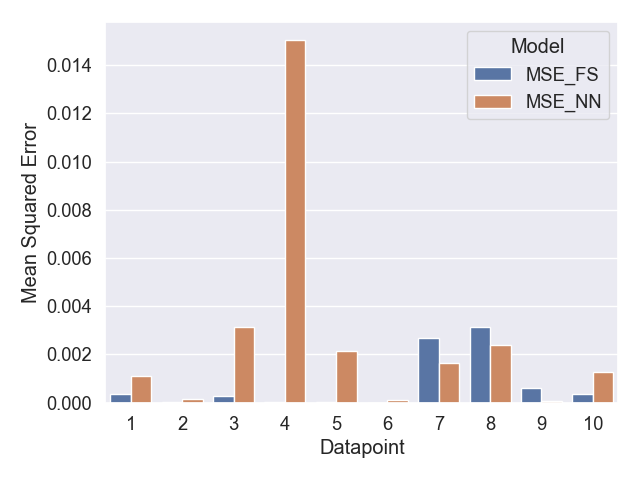
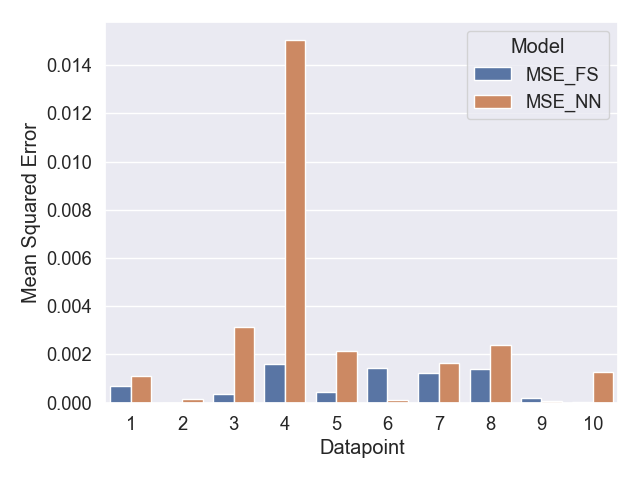
Fixed wrong table and mse image

diff --git a/report/src/main.tex b/report/src/main.tex
@@ -547,19 +547,18 @@ because the sample data has a column with the ``True'' \emph{CLPVariation}.
         \toprule
         CLPVariation FS & CLPVariation NN & FS label & NN label & MSE FS & MSE NN \\
         \midrule
-        0.790           & 0.744           & Increase & Increase & 0.000  & 0.001  \\
-        0.838           & 0.891           & Increase & Increase & 0.000  & 0.000  \\
-        0.748           & 0.623           & Increase & Increase & 0.000  & 0.003  \\
-        0.750           & 0.342           & Increase & Increase & 0.000  & 0.015  \\
-        0.518           & 0.646           & Increase & Increase & 0.000  & 0.002  \\
-        0.119           & 0.088           & Maintain & Maintain & 0.000  & 0.000  \\
-        -0.473          & -0.182          & Decrease & Maintain & 0.003  & 0.002  \\
-        -0.473          & -0.495          & Decrease & Decrease & 0.003  & 0.002  \\
-        -0.898          & -0.792          & Decrease & Decrease & 0.001  & 0.000  \\
-        -0.911          & -0.963          & Decrease & Decrease & 0.000  & 0.001  \\
+        0.7676          & 0.7442          & Increase & Increase & 0.0007 & 0.0011 \\
+        0.8520          & 0.8911          & Increase & Increase & 0.0000 & 0.0002 \\
+        0.8606          & 0.6227          & Increase & Increase & 0.0004 & 0.0031 \\
+        0.8561          & 0.3420          & Increase & Increase & 0.0016 & 0.0151 \\
+        0.5667          & 0.6459          & Increase & Increase & 0.0004 & 0.0021 \\
+        -0.0000         & 0.0876          & Maintain & Maintain & 0.0014 & 0.0001 \\
+        -0.4205         & -0.1818         & Decrease & Maintain & 0.0012 & 0.0016 \\
+        -0.7677         & -0.4950         & Decrease & Decrease & 0.0014 & 0.0024 \\
+        -0.8641         & -0.7922         & Decrease & Decrease & 0.0002 & 0.0001 \\
+        -0.8673         & -0.9626         & Decrease & Decrease & 0.0000 & 0.0013 \\
         \bottomrule
-    \end{tabular}
-    \caption{Results Table}
+    \end{tabular}    \caption{Results Table}
     \label{tab:final_results}
 \end{table}
 
@@ -574,9 +573,9 @@ To aid in interpreting the \emph{MSE} results of the Fuzzy System (FS) and Neura
 \end{figure}
 
 We observe that the Fuzzy System (FS) generally performs better than the Neural Network (NN), as expected, since the FS was used to train the NN.
-The best possible outcome would be for the NN to perform exactly like the FS. \\
-If we ``normalize'' the NN MSE as such: $\overline{\text{MSE}}_{\text{NN}}=\text{MSE}_{\text{NN}} - \text{MSE}_{\text{FS}}$
-we obtain $\overline{MSE}_{\text{NN}}=0.02$ which is very close to the test loss obtained ($0.0279$).
+The best possible outcome would be for the NN to perform exactly like the FS because the error is propagated.
+If we ``normalize'' the NN MSE to try to remove the FS error contribution as such: $\overline{\text{MSE}}_{\text{NN}}=\text{MSE}_{\text{NN}} - \text{MSE}_{\text{FS}}$
+we obtain $\overline{MSE}_{\text{NN}}=0.02$ This is very close to the test loss obtained ($0.0279$), demonstrating that the Neural Network is performing as expected.
 
 \section{Classification Results}
 To help interpret the classification results, the following~\nameref{fig:conf_matrix_final} and~\cref{tab:scores_final} presents the results and their precision, recall, and F1 score, respectively.
